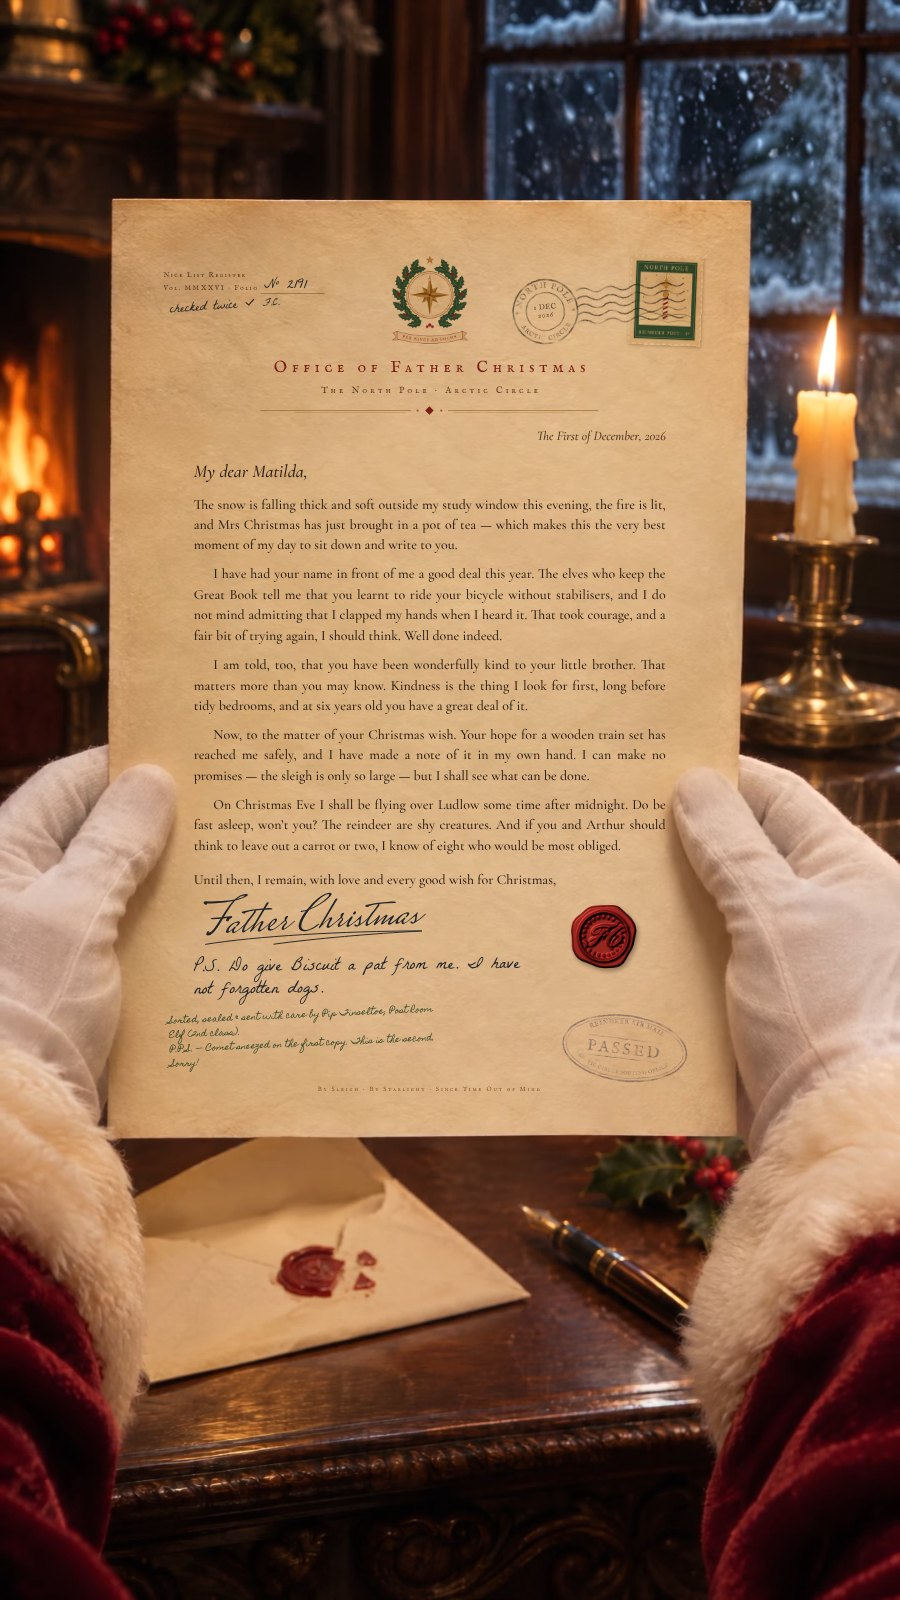
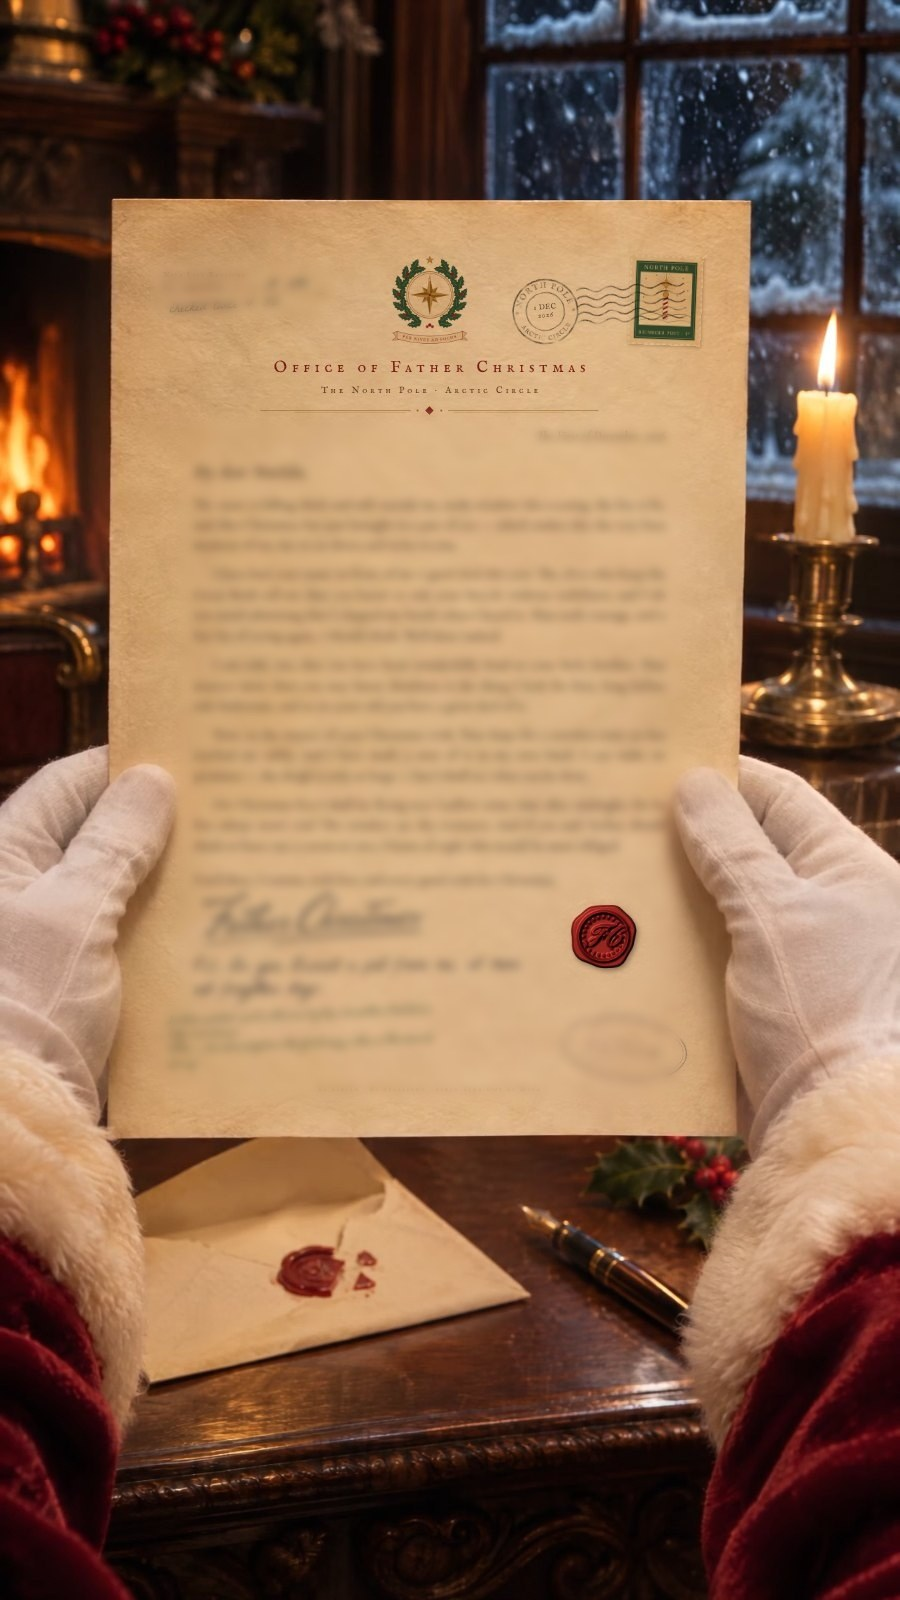
Blur the writing on the letter in the reading section picture
Claude-Session: https://claude.ai/code/session_01XHe8EAiXfqKJuMhKPFyodM

Changed region(s): [[0.1867, 0.2812, 0.7467, 0.6562], [0.3111, 0.1562, 0.3422, 0.1875]]

diff --git a/components/Home.js b/components/Home.js
@@ -104,7 +104,7 @@ export default function Home() {
               <p>The words light up as he reads, so little ones can follow along. Watch it as many times as you like, on a phone, a tablet or the television.</p>
               <p className="fine">Included with “{TIERS.read.name}” and “{TIERS.full.name}”.</p>
             </div>
-            <img className="hands" src="/art/hands-letter.jpg" alt="Father Christmas’s white-gloved hands holding a letter up by firelight at his desk, with a candle and a snowy window behind." />
+            <img className="hands" src="/art/hands-letter.jpg?v=2" alt="Father Christmas’s white-gloved hands holding a letter up by firelight at his desk, with a candle and a snowy window behind." />
           </div>
         </section>
 
